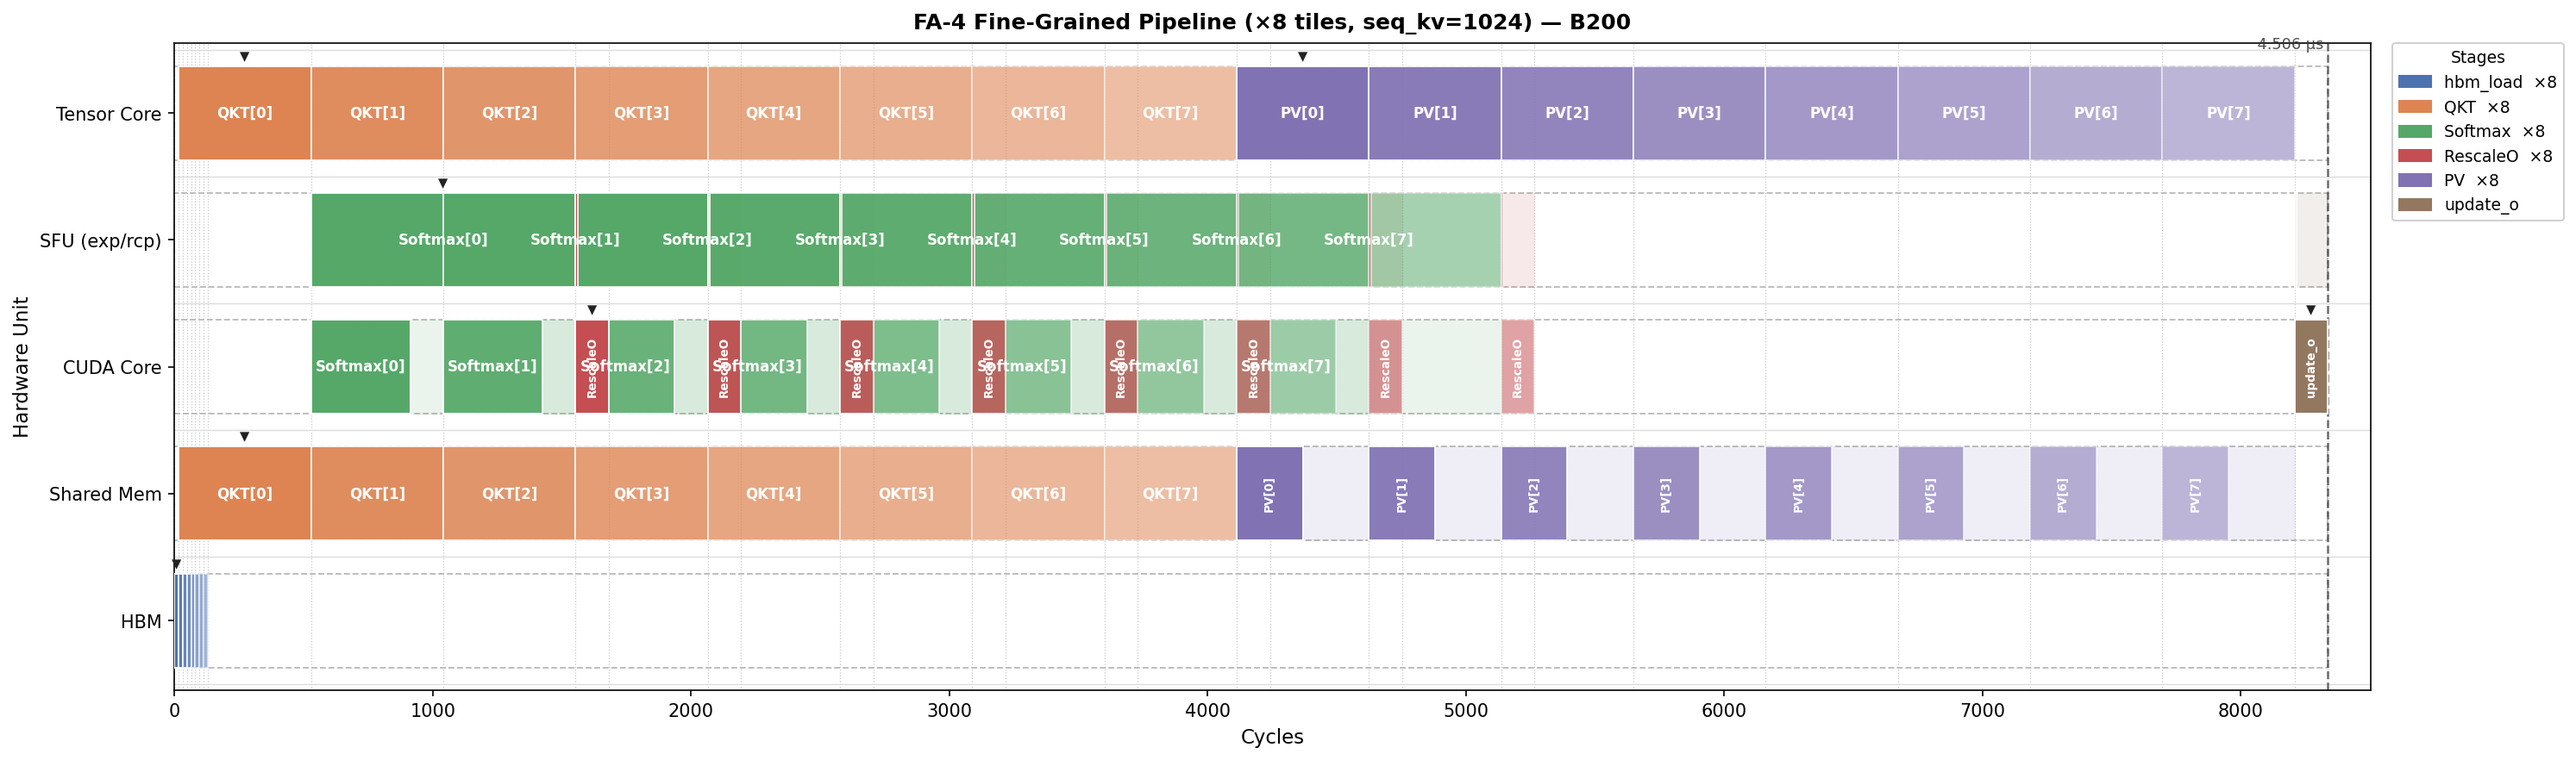
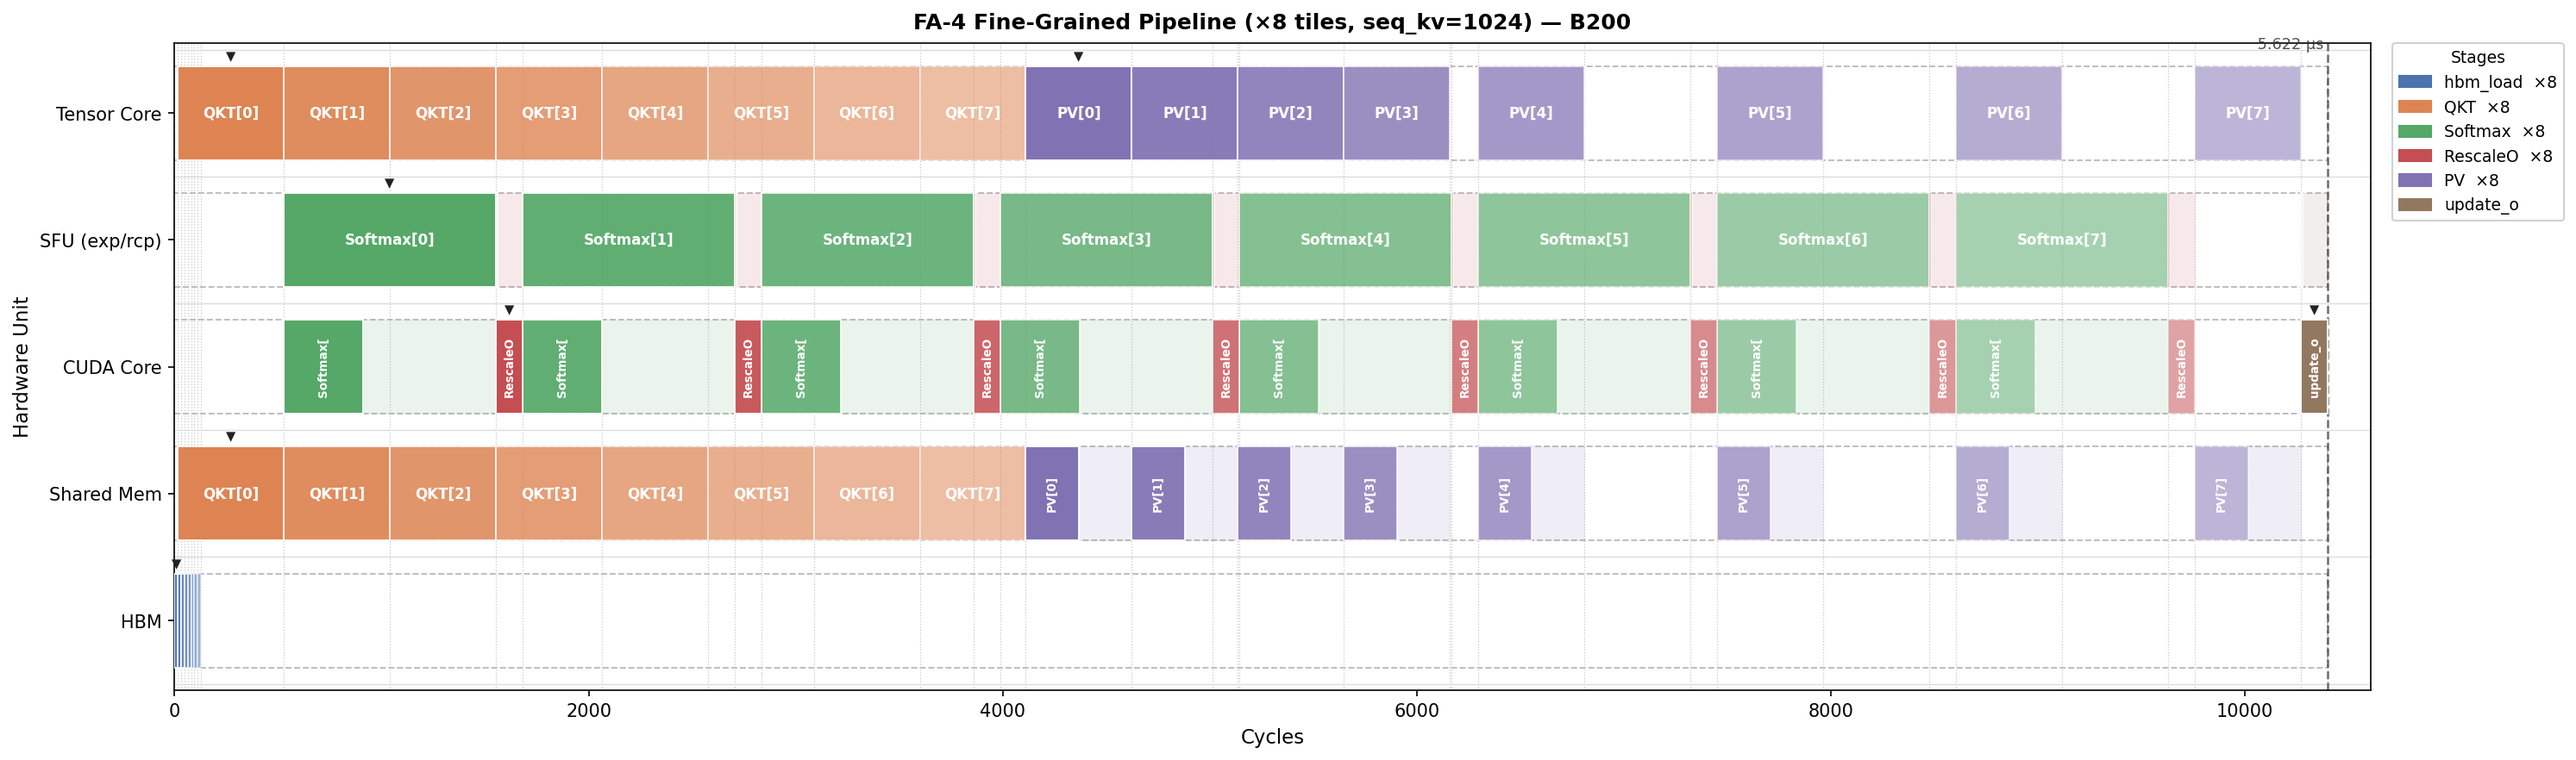
Fix SFU/CUDA Core serialization across tiles in fine-grained pipeline
Softmax[i] now depends on RescaleO[i-1] in addition to QKT[i], ensuring
the SFU and CUDA Core are not double-booked across tile iterations.
Previously Softmax[0] and Softmax[1] overlapped on SFU — now they form
a strict serial chain: Softmax[0]→RescaleO[0]→Softmax[1]→RescaleO[1]→...

Timeline now shows:
- TC: QKT[0..7] back-to-back | PV[0..7] back-to-back (TC idle during Softmax phase)
- SFU: Softmax[0..7] non-overlapping, each 1024 cycles
- SFU is the bottleneck for single-WG; FA-4 uses 2 WGs to hide this gap

Total: 10400 cycles (5.622 µs). The TC idle slots between QKTs and PVs are
exactly the gaps FA-4's second warp group fills.

diff --git a/examples/fa4_fine_grained_pipeline.py b/examples/fa4_fine_grained_pipeline.py
@@ -168,11 +168,15 @@ for i in range(n_tiles):
         depends_on=qkt_deps,
     ))
 
-    # Softmax and RescaleO: depend only on their own tile's QKT (SFU/CUDA)
+    # Softmax[i]: needs QKT[i] scores AND SFU/CUDA Core to be free.
+    # SFU + CUDA Core are exclusive: must wait for RescaleO[i-1] to finish.
+    softmax_deps = [f"QKT[{i}]"]
+    if i > 0:
+        softmax_deps.append(f"RescaleO[{i-1}]")   # ← SFU serialized
     stages.append(Stage(
         name=f"Softmax[{i}]",
         workload=softmax_wl,
-        depends_on=[f"QKT[{i}]"],
+        depends_on=softmax_deps,
     ))
     stages.append(Stage(
         name=f"RescaleO[{i}]",
